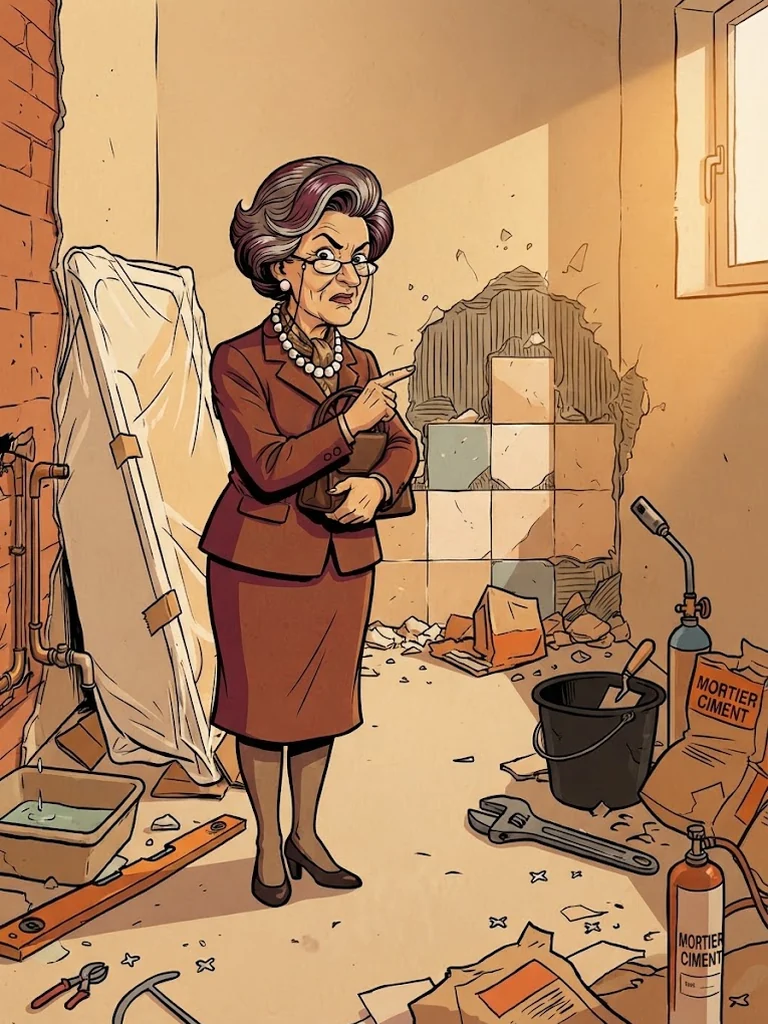
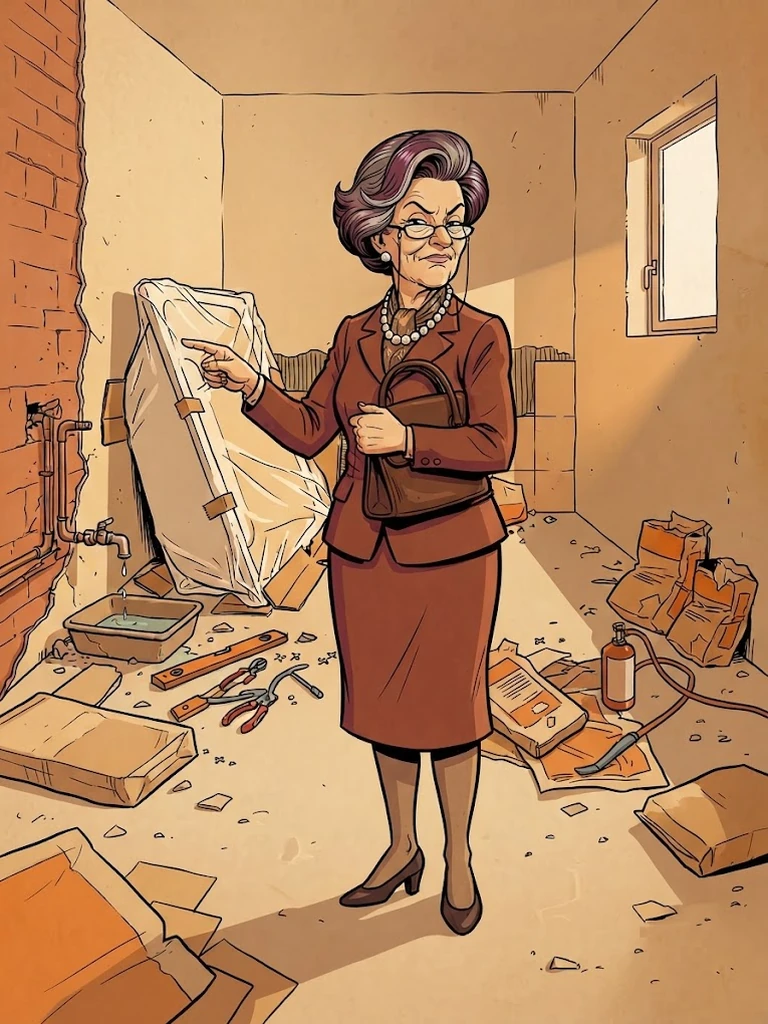
EX-157 : regeneration de trois illustrations en situation (patron en pied, bellemaman et locataire sans texte lisible)

diff --git a/docs/art/PROMPTS.md b/docs/art/PROMPTS.md
@@ -234,11 +234,11 @@ Chaque personnage a d'abord une fiche de reference (en pied, de trois quarts, no
 ### `data/profils/plombier/img/bellemaman-situation.webp`
 
 - Date : 2026-10-12
-- Tentatives : 1
+- Tentatives : 2
 - Images jointes : fiche de reference de ce personnage (non publiee), `data/profils/plombier/decors/salle-de-bains-chantier.webp` (lieu et style)
 - Prompt :
 
-> Illustration pour un jeu web humoristique francais sur le controle fiscal, style bande dessinee franco-belge (ligne claire), couleurs chaudes facon papier kraft, aplats, contours noirs nets. Une belle-mere elegante d'environ soixante-cinq ans, brushing laque aux reflets violines, collier de perles, sac a main serre contre elle, en pied, en situation : dans sa salle de bains en chantier, elle montre du doigt les carreaux tout en serrant son sac a main. Meme personnage que la premiere image jointe ; la seconde image jointe donne le lieu et le style du decor. Format vertical 3:4, lumiere de fin d'apres-midi. Caricature de fonction, pas une personne reelle, aucun texte lisible, aucune marque ni logo.
+> Illustration pour un jeu web humoristique francais sur le controle fiscal, style bande dessinee franco-belge (ligne claire), couleurs chaudes facon papier kraft, aplats, contours noirs nets. Une belle-mere elegante d'environ soixante-cinq ans, brushing laque aux reflets violines, collier de perles, sac a main serre contre elle, en pied, en situation : dans sa salle de bains en chantier, elle montre du doigt les carreaux tout en serrant son sac a main. Meme personnage que la premiere image jointe ; la seconde image jointe donne le lieu et le style du decor. Format vertical 3:4, lumiere de fin d'apres-midi. Caricature de fonction, pas une personne reelle, aucun texte lisible, aucune marque ni logo. Les sacs, bouteilles et materiaux du chantier sont unis, sans aucune inscription, ni etiquette ni lettre. Illustration pleine page : le dessin va jusqu'aux bords de l'image, sans cadre, sans bordure ni marge.
 
 ### `data/profils/restaurateur/img/addition.webp`
 
@@ -278,11 +278,11 @@ Chaque personnage a d'abord une fiche de reference (en pied, de trois quarts, no
 ### `data/profils/restaurateur/img/patron-situation.webp`
 
 - Date : 2026-10-12
-- Tentatives : 1
+- Tentatives : 2
 - Images jointes : fiche de reference de ce personnage (non publiee), `data/profils/restaurateur/decors/salle-bistrot.webp` (lieu et style)
 - Prompt :
 
-> Illustration pour un jeu web humoristique francais sur le controle fiscal, style bande dessinee franco-belge (ligne claire), couleurs chaudes facon papier kraft, aplats, contours noirs nets. Un patron de bistrot francais d'une quarantaine d'annees bien portant, moustache en guidon, tablier noir noue, torchon sur l'epaule, manches retroussees, en pied, en situation : derriere son comptoir en zinc, il essuie un verre avec son torchon. Meme personnage que la premiere image jointe ; la seconde image jointe donne le lieu et le style du decor. Format vertical 3:4, lumiere de fin d'apres-midi. Caricature de fonction, pas une personne reelle, aucun texte lisible, aucune marque ni logo.
+> Illustration pour un jeu web humoristique francais sur le controle fiscal, style bande dessinee franco-belge (ligne claire), couleurs chaudes facon papier kraft, aplats, contours noirs nets. Un patron de bistrot francais d'une quarantaine d'annees bien portant, moustache en guidon, tablier noir noue, torchon sur l'epaule, manches retroussees, en pied, en situation : debout devant son comptoir en zinc, visible des pieds a la tete, il essuie un verre avec son torchon. Meme personnage que la premiere image jointe ; la seconde image jointe donne le lieu et le style du decor. Format vertical 3:4, lumiere de fin d'apres-midi. Caricature de fonction, pas une personne reelle, aucun texte lisible, aucune marque ni logo. Le personnage est entierement visible, des chaussures au sommet du crane, avec un peu de sol sous ses pieds. Illustration pleine page : le dessin va jusqu'aux bords de l'image, sans cadre, sans bordure ni marge.
 
 ### `data/profils/restaurateur/img/saucier.webp`
 
@@ -564,11 +564,11 @@ Chaque personnage a d'abord une fiche de reference (en pied, de trois quarts, no
 ### `data/profils/coiffeuse/img/locataire-situation.webp`
 
 - Date : 2026-10-12
-- Tentatives : 1
+- Tentatives : 2
 - Images jointes : fiche de reference de ce personnage (non publiee), `data/profils/coiffeuse/decors/arriere-boutique.webp` (lieu et style)
 - Prompt :
 
-> Illustration pour un jeu web humoristique francais sur le controle fiscal, style bande dessinee franco-belge (ligne claire), couleurs chaudes facon papier kraft, aplats, contours noirs nets. Une coiffeuse independante d'une trentaine d'annees, queue de cheval, blouse de salon, peigne dans la poche, telephone a la main, en pied, en situation : dans l'arriere-boutique entre les stocks de flacons de shampoing, elle regarde un planning accroche au mur. Meme personnage que la premiere image jointe ; la seconde image jointe donne le lieu et le style du decor. Format vertical 3:4, lumiere de fin d'apres-midi. Caricature de fonction, pas une personne reelle, aucun texte lisible, aucune marque ni logo.
+> Illustration pour un jeu web humoristique francais sur le controle fiscal, style bande dessinee franco-belge (ligne claire), couleurs chaudes facon papier kraft, aplats, contours noirs nets. Une coiffeuse independante d'une trentaine d'annees, queue de cheval, blouse de salon, peigne dans la poche, telephone a la main, en pied, en situation : dans l'arriere-boutique entre les stocks de flacons de shampoing sans etiquette, elle compte les flacons d'une etagere, telephone a la main. Meme personnage que la premiere image jointe ; la seconde image jointe donne le lieu et le style du decor. Format vertical 3:4, lumiere de fin d'apres-midi. Caricature de fonction, pas une personne reelle, aucun texte lisible, aucune marque ni logo. Aucun planning, calendrier, affiche ni etiquette ecrite dans l'image ; les flacons sont unis. Illustration pleine page : le dessin va jusqu'aux bords de l'image, sans cadre, sans bordure ni marge.
 
 ### `data/profils/galeriste/img/poney.webp`
 
